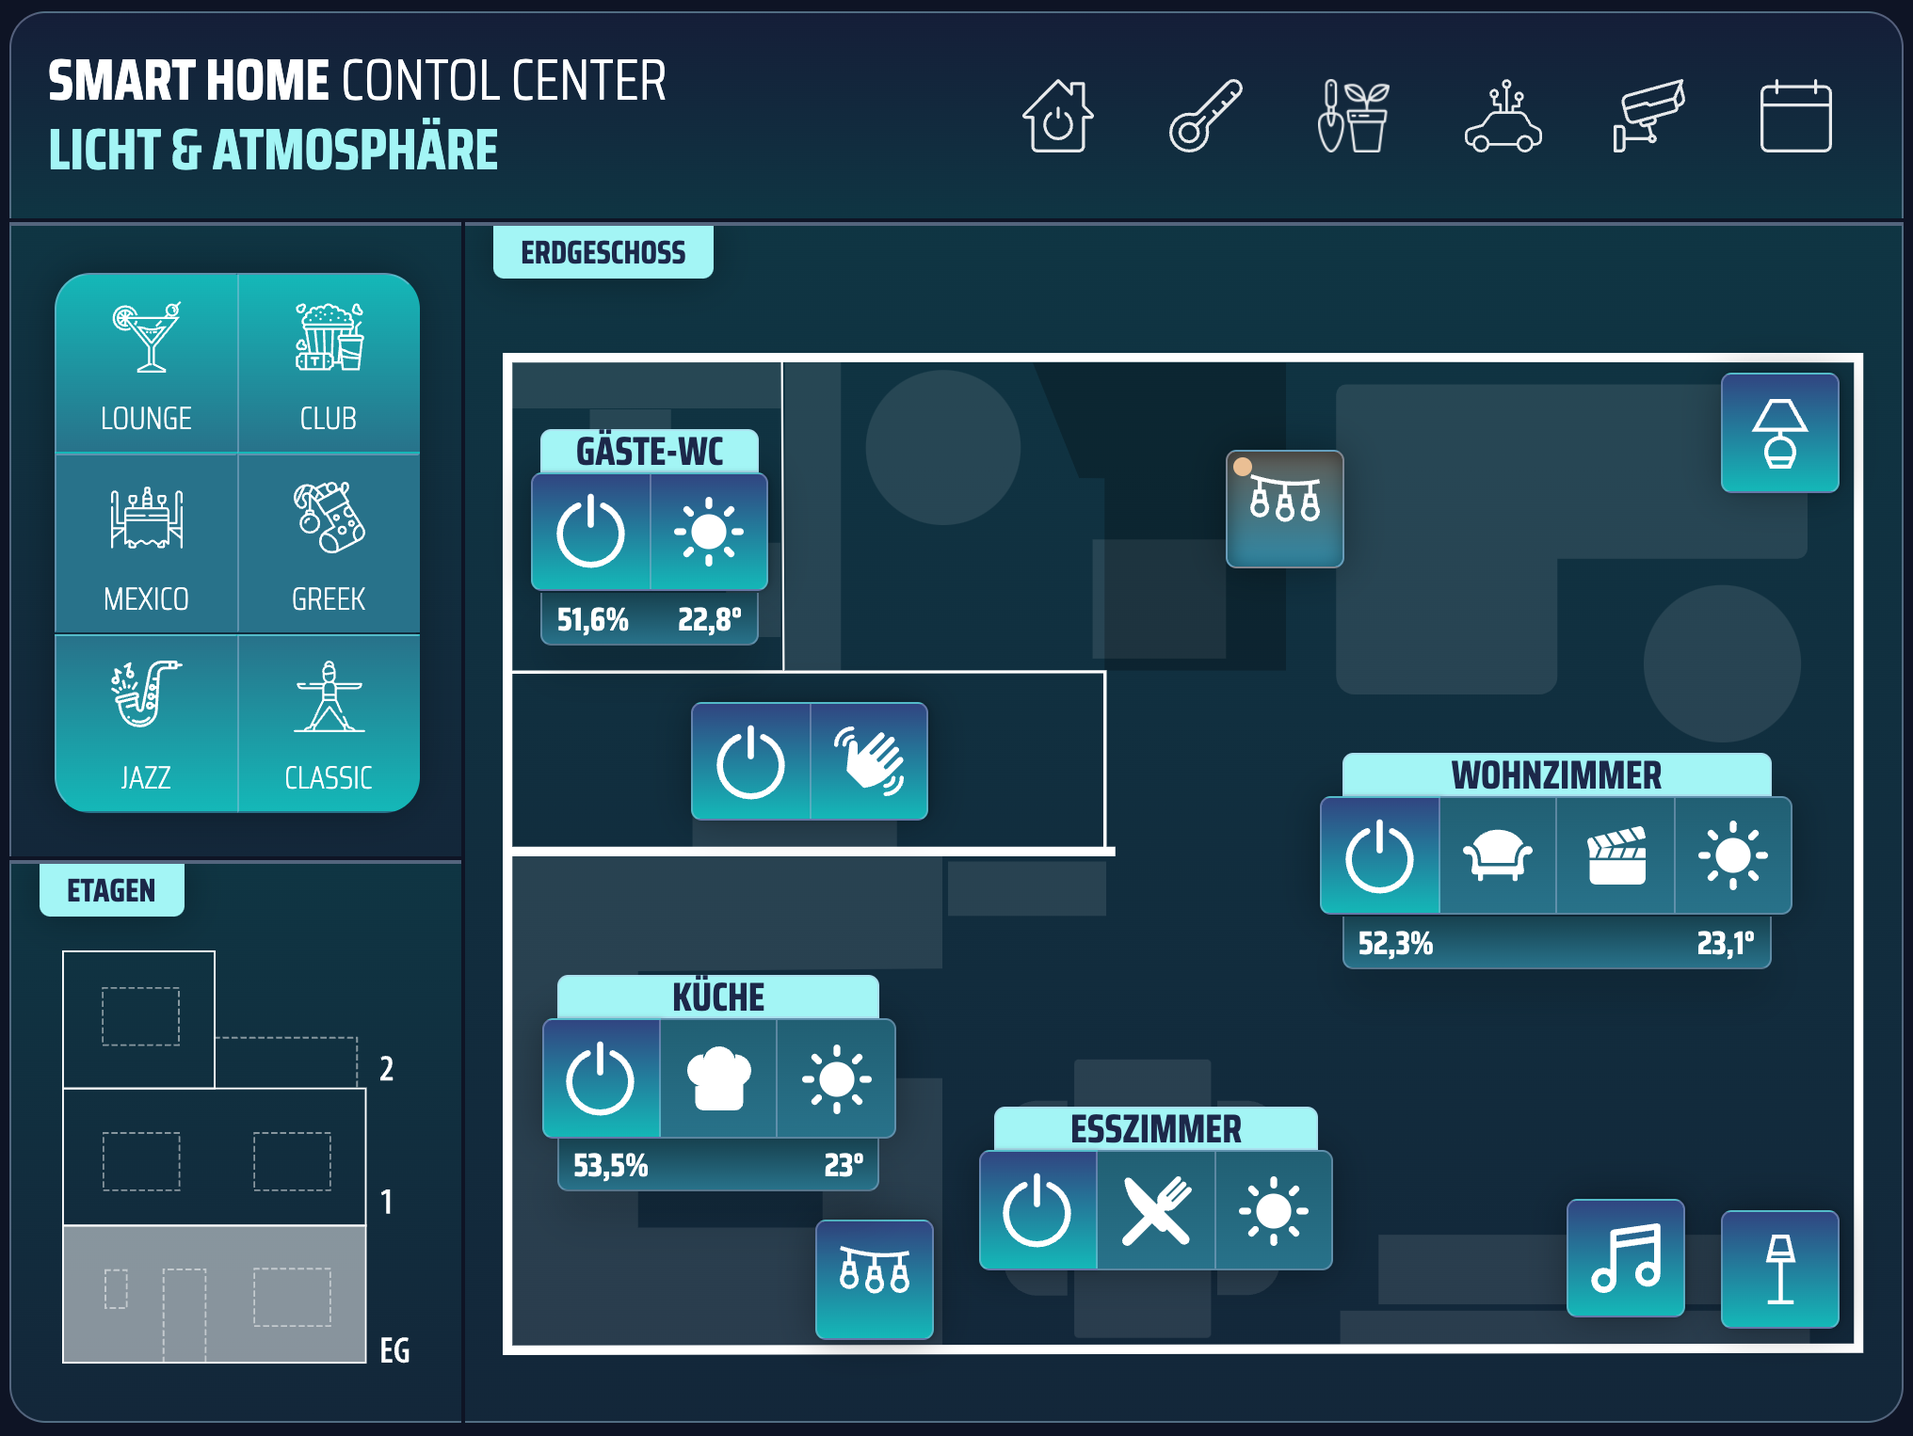
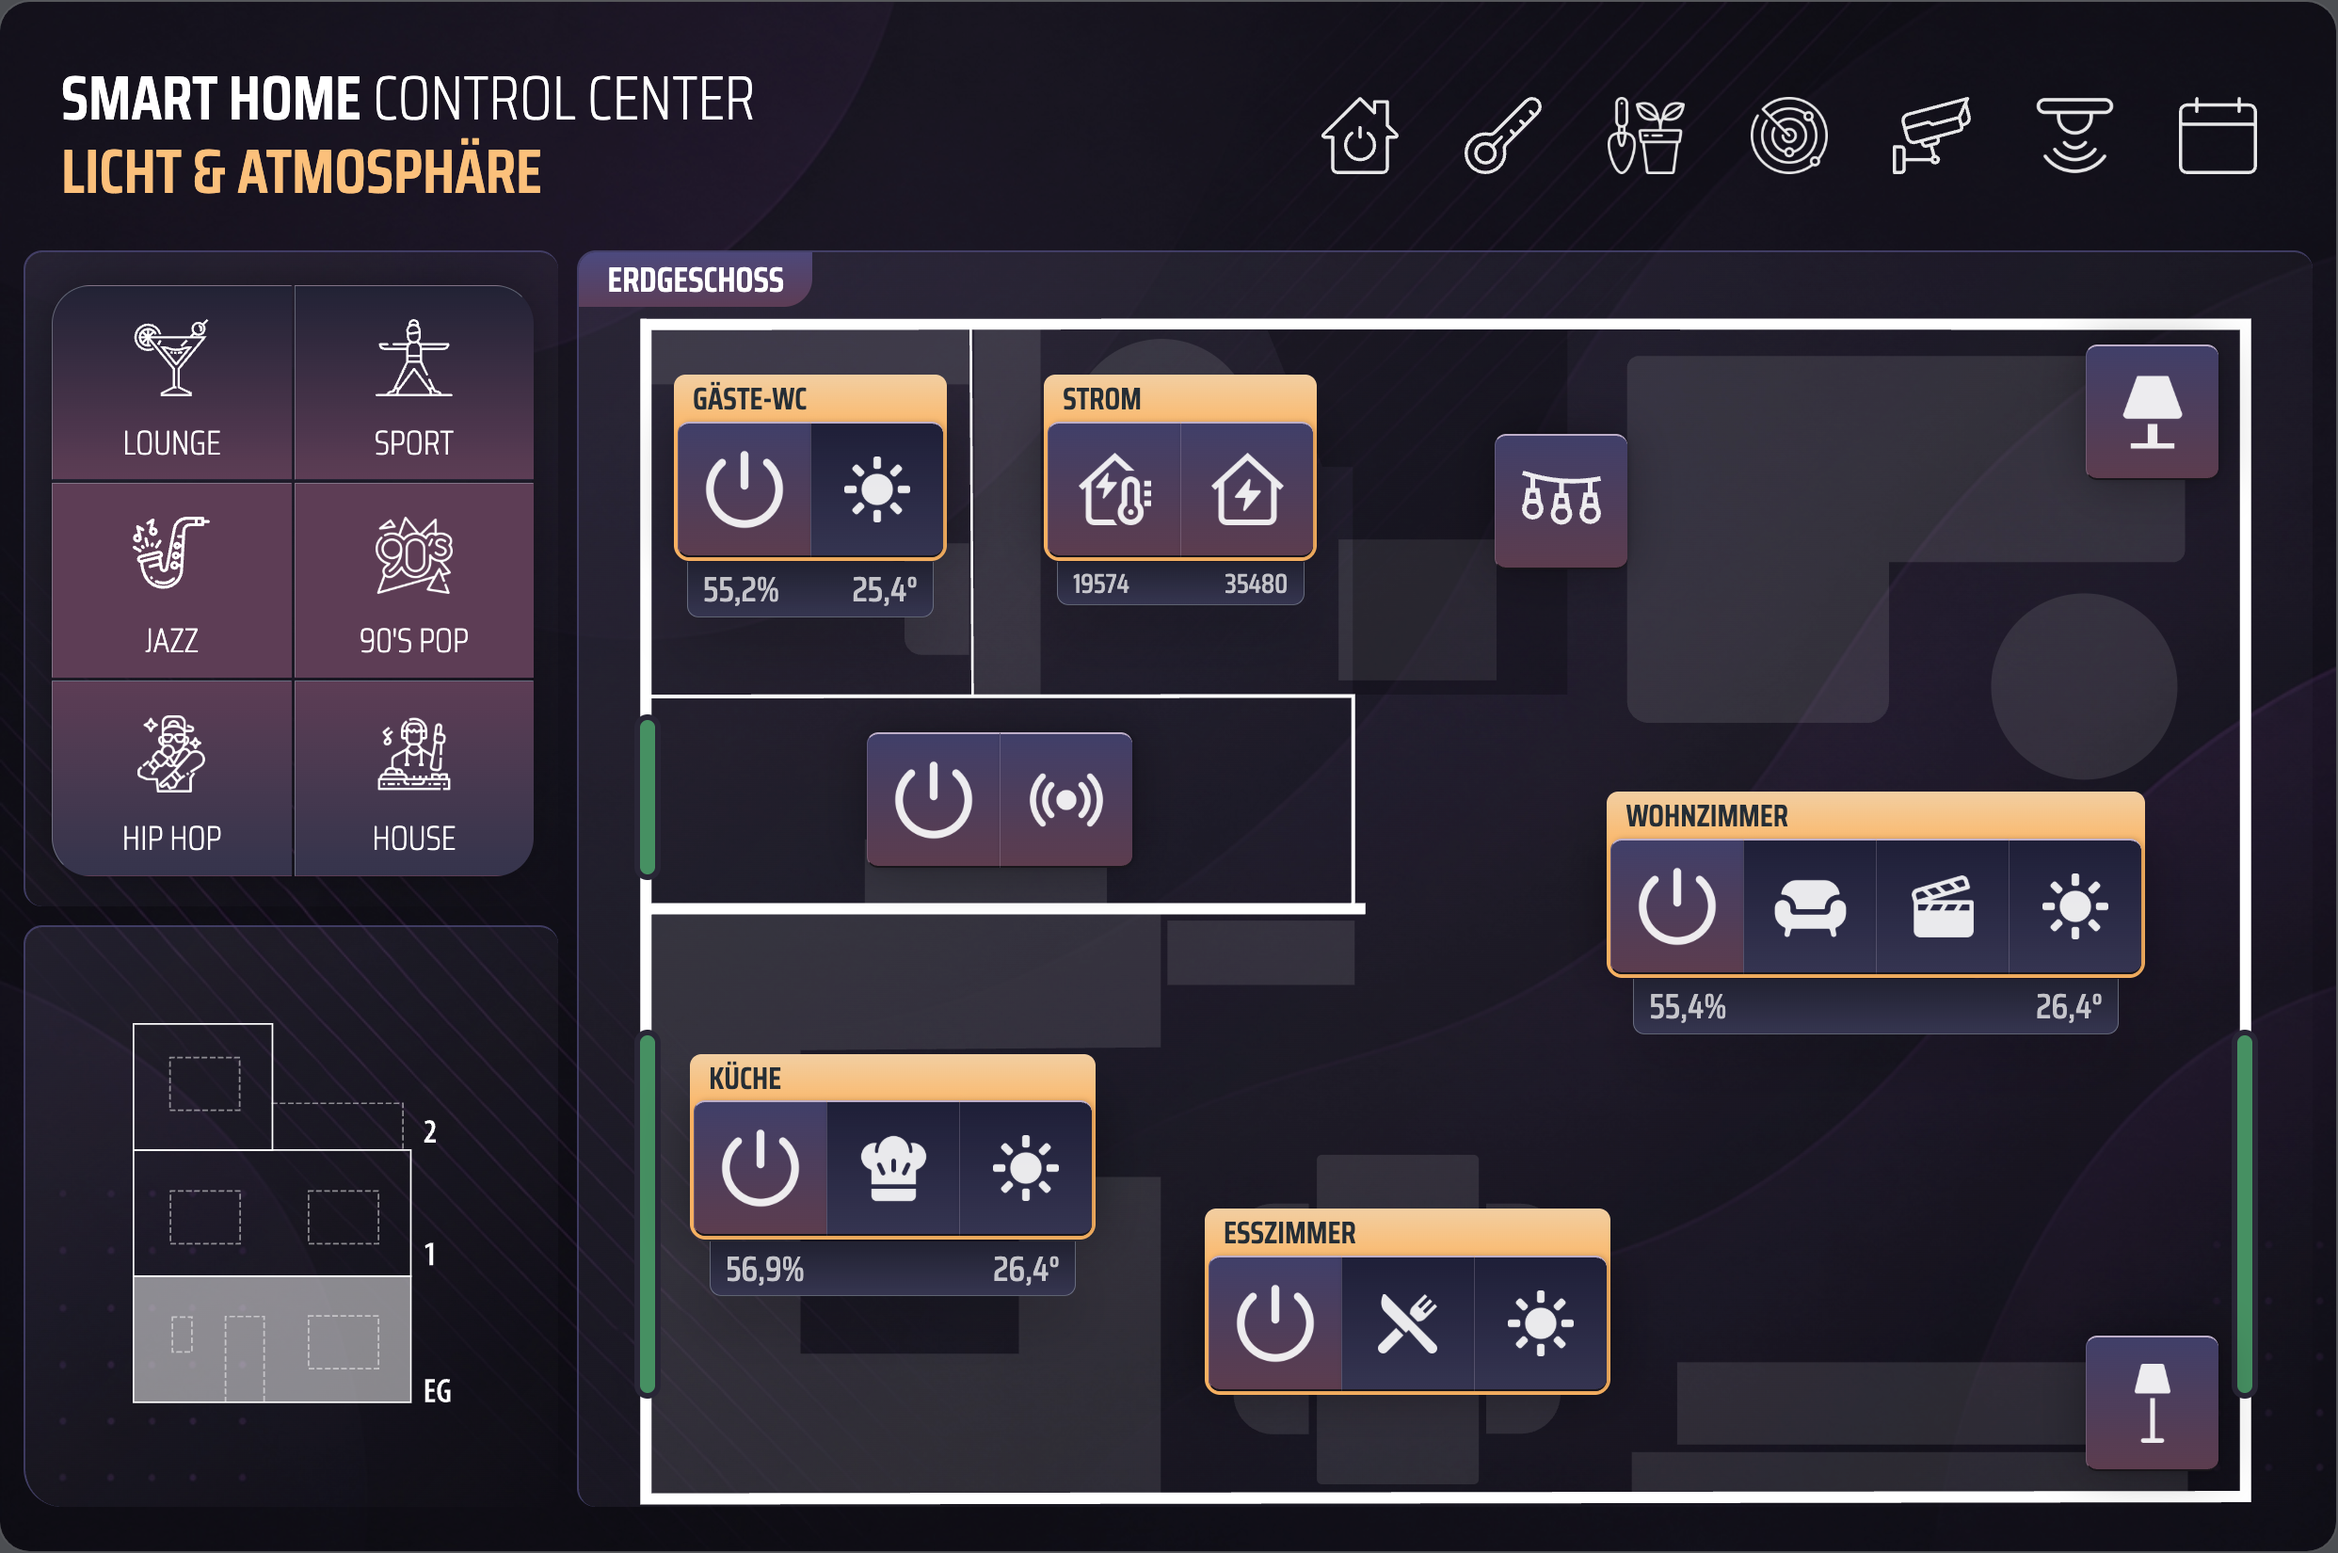
Update README screenshots

diff --git a/README.md b/README.md
@@ -145,7 +145,7 @@ The UI can be assembled using different modules (news, weather, canvas,...). The
 <br/>
 <p align="center">
     <img src="doc/img/screenshot-main.png" alt="Screenshot of main view" width="450">
-    <p align="center">Screenshot of main view with news and weather</p>
+    <p align="center">Screenshot of different types of lists that can be used as canvas elements.</p>
 </p>
 <br/>
 
